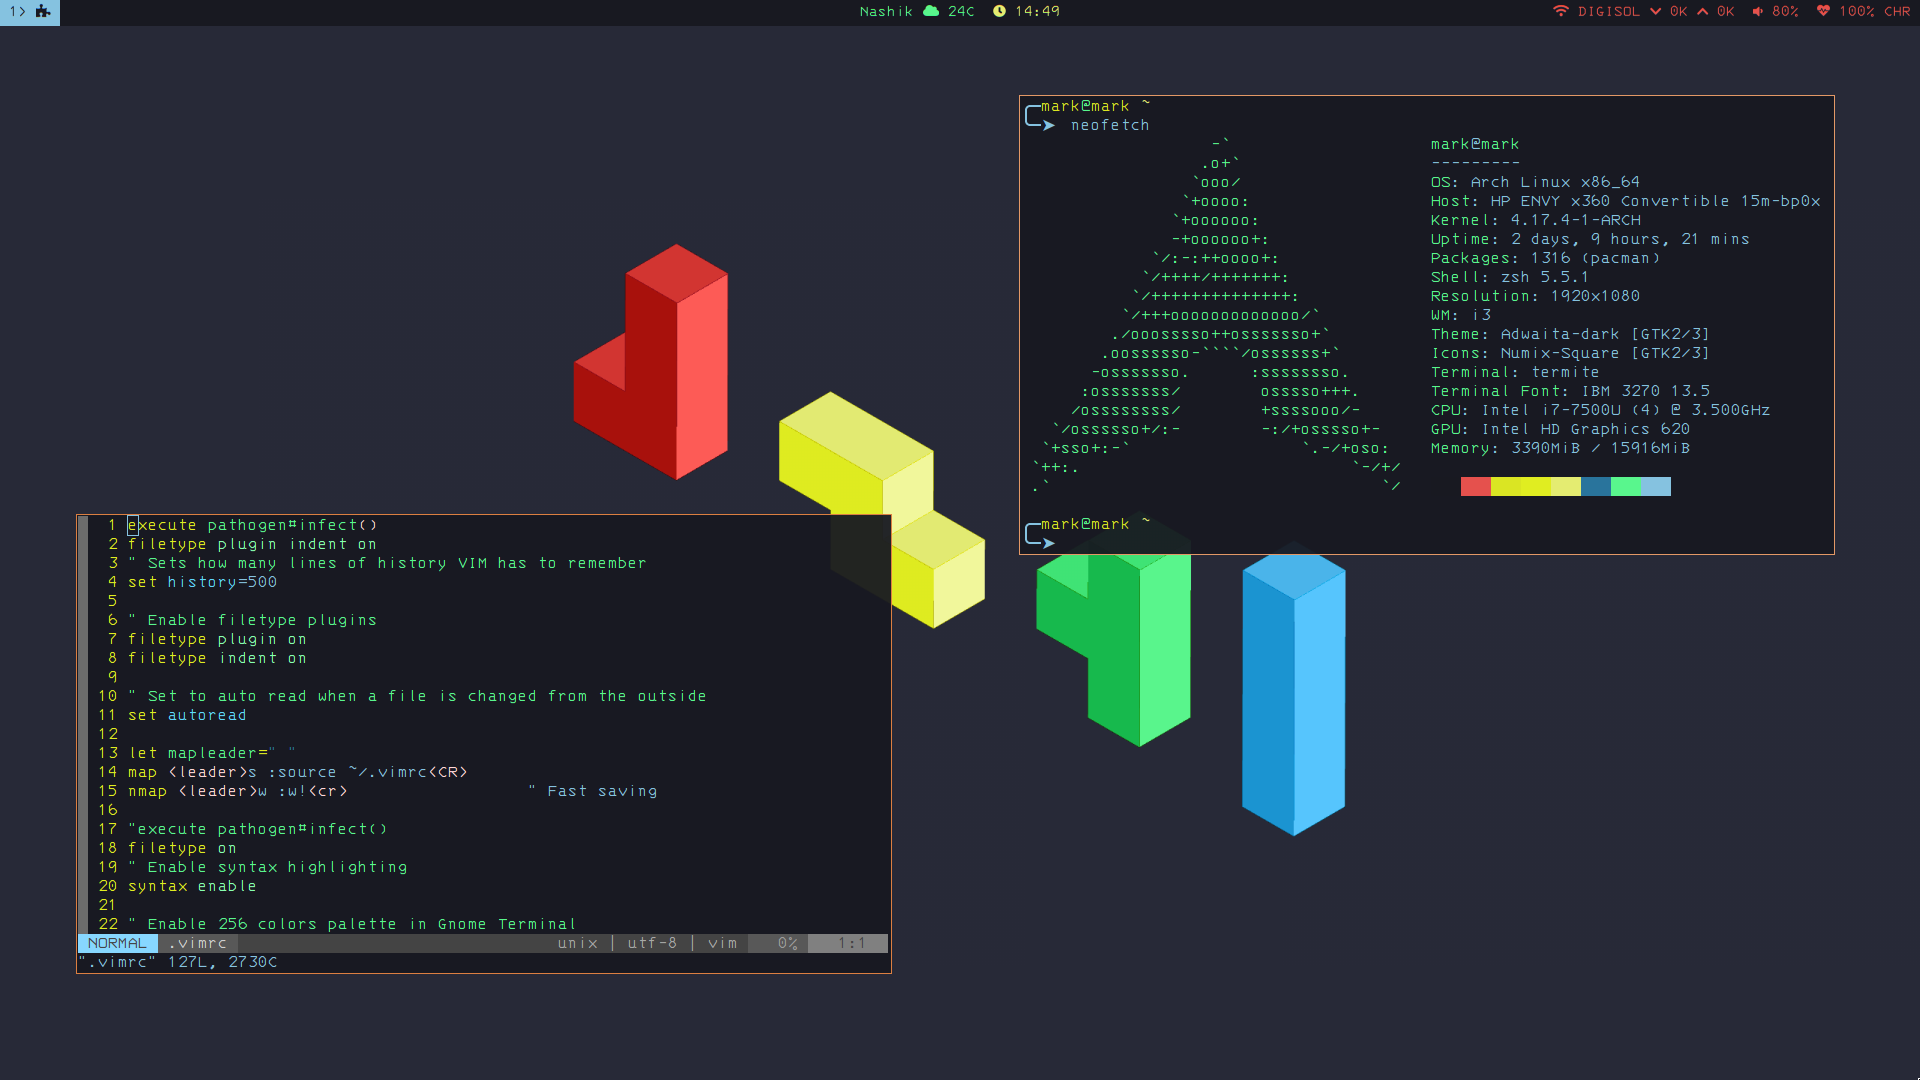
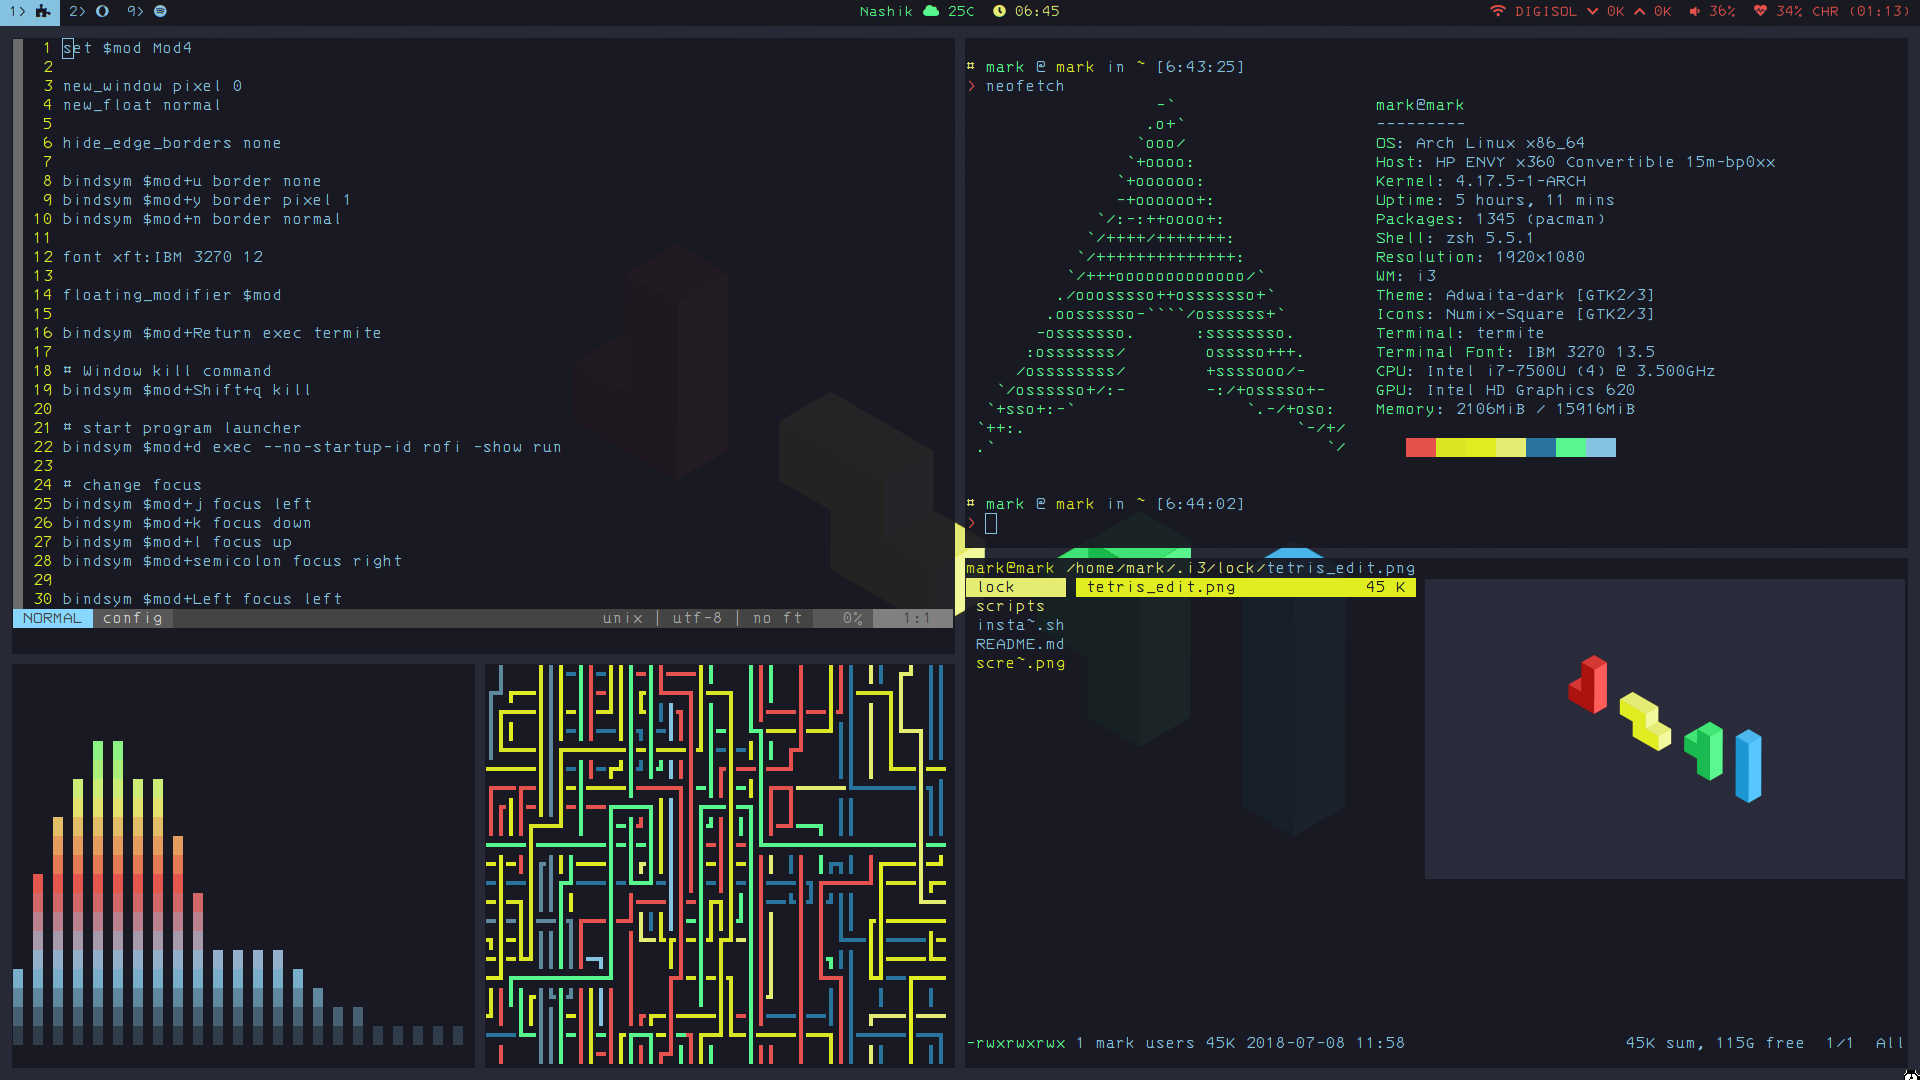
update

diff --git a/README.md b/README.md
@@ -1,3 +1,5 @@
-# Binary Headphone Rice for i3wm-gaps
+# Tetris Rice for i3wm-gaps
 
 ![Screenshot](screenshot.png)
+
+![Screenshot 2](screenshot_2.png)
